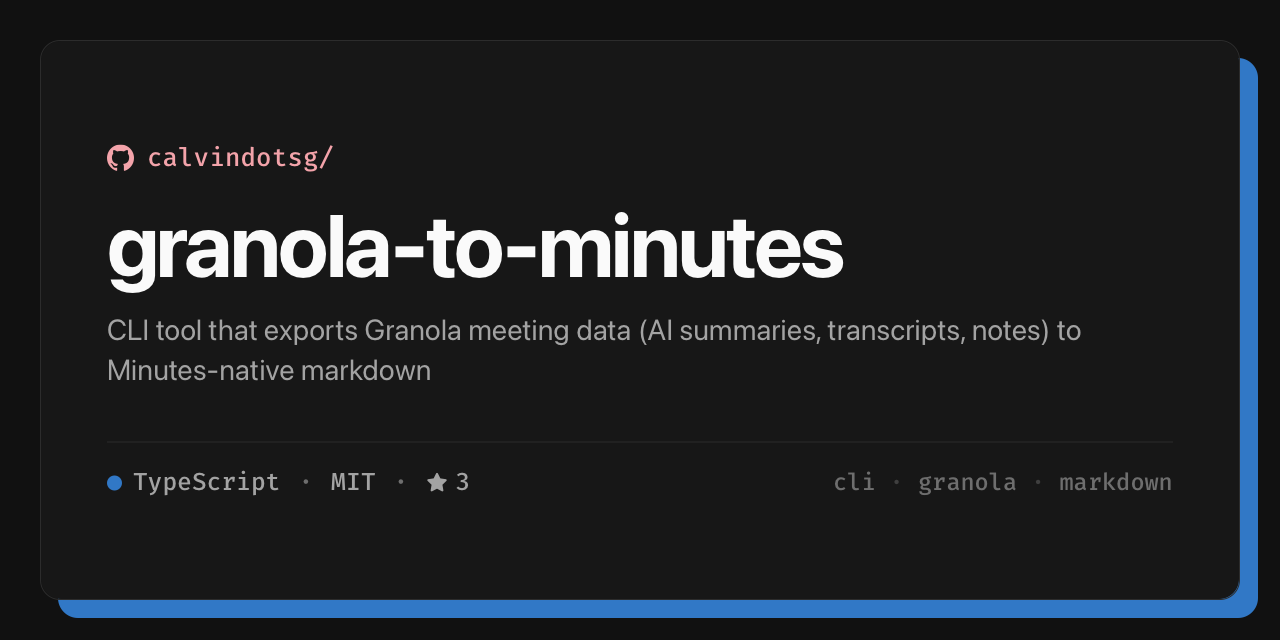
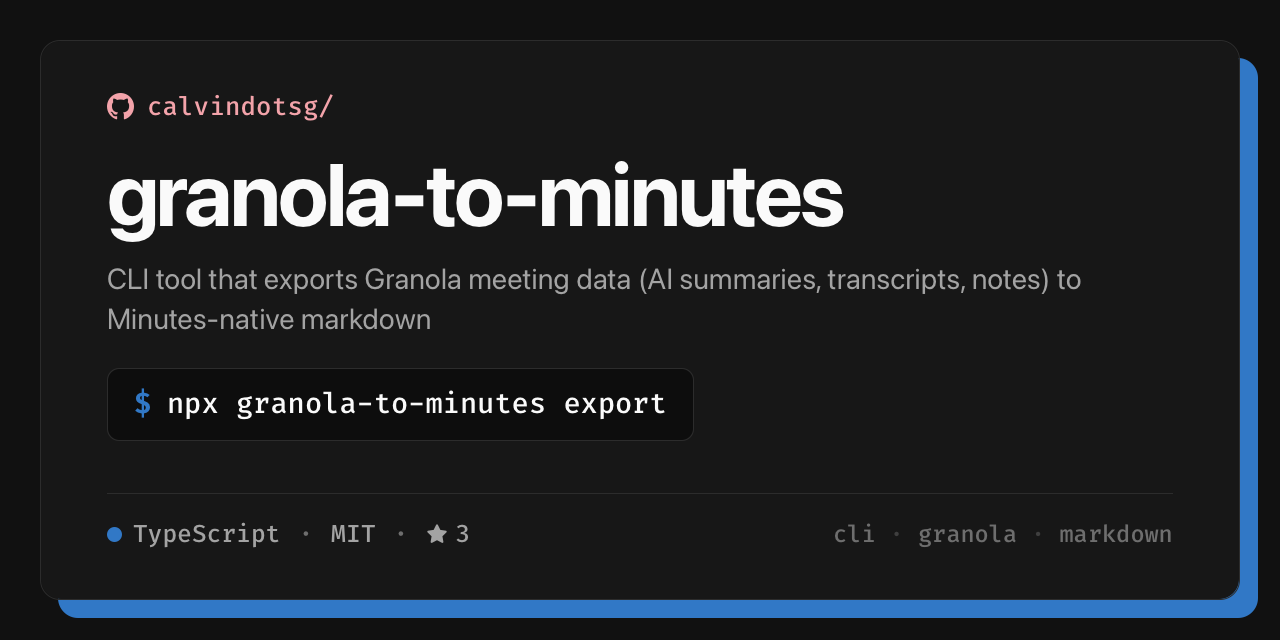
feat(social-preview): gate cards on carrying what the default cannot
Put the two cards side by side and the first version loses. GitHub's generated card already
draws the name, description, owner avatar, four LIVE counters — contributors, issues, stars,
forks — and a proportional language bar over every language in the repository. A card built
from the same metadata trades all of that for a licence and three topics, and freezes what is
left into a snapshot that nothing re-runs. That is a downgrade wearing a nicer palette, and it
is not obvious until the comparison is actually made.

So eligibility is now a rule the tool enforces, not advice in a README: a repository earns a
card only when the card carries something no generated card can. Today that is an install
command — it lives in no GitHub metadata field, and for something you install and run it is the
most useful line on the card. `repos.json` is the list, each command copied from that
repository's own README, and the upload refuses without an entry unless forced. The check runs
before drawing, so a refused repository leaves no PNG to be mistaken later for a live card.

Three qualify. `portfolio-v2`, `.github` and the profile README keep GitHub's card, and their
images are deleted rather than left committed and unused.

Claude-Session: https://claude.ai/code/session_01Po4827ua2sCb7ZHRfXYJ9D

diff --git a/social-preview/card.html b/social-preview/card.html
@@ -131,6 +131,38 @@
         overflow: hidden;
     }
 
+    /*
+     * THE ONE LINE GITHUB'S GENERATED CARD CANNOT DRAW, and the reason a custom card exists at
+     * all. An install command is in no GitHub metadata field, so no card built from metadata can
+     * ever show it — while everything else here (name, description, language, counters) the
+     * default card already draws, live, and better. A card without this element is a downgrade;
+     * `scripts/social-preview.sh` refuses to upload one without being forced.
+     *
+     * Set as a terminal line rather than a button, because that is where the command is going to
+     * be typed, and the card is already speaking that language in its utility face.
+     */
+    .install {
+        margin-top: 30px;
+        display: inline-flex;
+        align-items: baseline;
+        gap: 16px;
+        max-width: 100%;
+        padding: 18px 26px;
+        /* Recessed rather than raised: darker than the card it sits on, the way a terminal is
+         * darker than the window around it. */
+        background: #0D0D0D;
+        border: 1px solid var(--rule);
+        border-radius: 12px;
+        color: var(--ink);
+        font-size: 28px;
+        font-weight: 500;
+        white-space: nowrap;
+        overflow: hidden;
+    }
+
+    /* The prompt carries the language colour, tying the command to the slab behind the card. */
+    .install .prompt { color: var(--lang-true, var(--lang)); font-weight: 700; }
+
     .meta {
         margin-top: 52px;
         padding-top: 26px;
@@ -188,6 +220,7 @@
         </div>
         <div class="name" id="name"></div>
         <div class="desc" id="desc"></div>
+        <div class="install mono" id="install" hidden></div>
     </div>
     <div class="meta">
         <div class="facts mono" id="facts"></div>
@@ -204,13 +237,14 @@
      */
     const CARD = /*__CARD_DATA__*/ {
         owner: "calvindotsg",
-        name: "portfolio-v2",
-        description: "calvin.sg — Astro site with DNS-as-code, live Strava goal tracking, and a rendered-output test suite",
-        language: "TypeScript",
-        languageColor: "#3178c6",
+        name: "mac-upkeep",
+        description: "Zero-config CLI that runs unified macOS maintenance — caches, updates, services — on boot and weekly via launchd",
+        language: "Python",
+        languageColor: "#3572A5",
         license: "MIT",
-        stars: 0,
-        topics: ["astro", "portfolio", "personal-website"]
+        stars: 2,
+        topics: ["automation", "cli", "homebrew"],
+        install: "brew install calvindotsg/tap/mac-upkeep"
     } /*__END_CARD_DATA__*/;
 
     const $ = (id) => document.getElementById(id);
@@ -279,6 +313,18 @@
      * usually buys the whole sentence; below that it stops being legible in a Slack unfurl, so
      * the clamp takes over and the tail is dropped on purpose rather than by accident. */
     if ((CARD.description || "").length > 88) $("desc").style.fontSize = "29px";
+
+    if (CARD.install) {
+        const el = $("install");
+        el.hidden = false;
+        el.innerHTML = '<span class="prompt">$</span><span id="cmd"></span>';
+        document.getElementById("cmd").textContent = CARD.install;
+        // Same treatment as the headline: step the command down until it fits on one line,
+        // rather than picking a size that happens to suit today's longest command.
+        for (let size = 28; size >= 18 && el.scrollWidth > 1010; size -= 1) {
+            el.style.fontSize = size + "px";
+        }
+    }
 
     const facts = [];
     if (CARD.language) {

diff --git a/social-preview/README.md b/social-preview/README.md
@@ -13,45 +13,80 @@ LinkedIn. `scripts/social-preview.sh` draws one from the repository's own metada
 preview back, so a committed copy is the only record of what is live — and the only way a change
 to the design shows up as a diff.
 
-## Status: uploads currently land, but GitHub does not serve them
+## Which repositories should have one — and why most should not
 
-**Nothing in this directory has been rolled out, and that is deliberate.** GitHub's
-repository-image pipeline is broken as of 2026-08-21: an upload succeeds, the repository's
-`og:image` is repointed at the new asset, GitHub's own Settings page renders the preview tile —
-and the bytes never appear on `repository-images.githubusercontent.com`, which answers 404
-forever. The result is worse than doing nothing: every link to the repository unfurls as a broken
-image, where an unconfigured repository unfurls as GitHub's generated card.
+**GitHub's generated card is good, and it is live.** Measured against
+`calvindotsg/portfolio-v2`, it carries the owner and repository name, the description, the
+owner's avatar, four counters — contributors, issues, stars, forks — and a proportional language
+bar, and every one of those numbers updates itself.
 
-This is not specific to this tooling. It reproduces through GitHub's own UI, and is reported
-publicly — [davep, "GitHub social preview is broken"][davep] (2026-08-21), which counts two
-community-discussion reports of the same thing.
+A custom card built from the same metadata is therefore not a reskin, it is a **downgrade**:
 
-Verified here on `calvindotsg/portfolio-v2` across four separate uploads: policy `201`, storage
-`204`, finalize `200`, asset readable straight from GitHub's own S3 bucket at full size, and the
-CDN URL 404 for over 45 minutes. `--remove` restored the generated card.
+| | Generated card | A metadata-only custom card |
+|---|---|---|
+| Name, description | Yes | Yes |
+| Owner avatar | Yes | No |
+| Contributors / issues / stars / forks | Yes, **live** | Stars only, **frozen at render time** |
+| Language | Proportional bar over every language | Primary language only |
+| Licence, topics | No | Yes |
+| Stays current | Automatically | Only when someone re-runs this script |
 
-**To roll out once GitHub fixes it:**
+Net of that trade, a metadata-only card adds a licence and three topics and gives up four live
+counters, the avatar and the full language breakdown. That is not worth doing, and the reason to
+write it down is that it is not obvious until the two are put side by side.
+
+**So a repository earns a card only when the card can carry something the generated one
+structurally cannot.** Today that means one thing: an **install command**. It exists in no GitHub
+metadata field, so no generated card can ever show it, and for something you install and run it
+is the most useful line on the card. `repos.json` is the list, and having an entry there is what
+makes a repository eligible — `social-preview.sh` refuses to upload for a repository without one
+unless you pass `--force`.
+
+Three qualify. `portfolio-v2`, `.github` and the `calvindotsg` profile README do not, and keep
+GitHub's card. For `portfolio-v2` the thing that would beat the default is a **screenshot of
+calvin.sg** — showing the product rather than restating its metadata. That is a different kind of
+card and is not built here.
+
+## Status: nothing is uploaded, and GitHub could not serve it anyway
+
+Two independent reasons, either sufficient on its own:
+
+1. **The eligibility rule above.** Only three repositories qualify, and their cards are committed
+   here, drawn and checked, ready to upload.
+2. **GitHub's repository-image pipeline is broken as of 2026-08-21.** An upload succeeds, the
+   repository's `og:image` is repointed at the new asset, GitHub's own Settings page renders the
+   preview tile — and the bytes never appear on `repository-images.githubusercontent.com`, which
+   answers 404 indefinitely. A configured repository then unfurls as a *broken image*, which is
+   worse than the generated card it replaced.
+
+The second is not specific to this tooling: it reproduces through GitHub's own UI and is reported
+publicly — [davep, "GitHub social preview is broken"][davep] (2026-08-21), citing two
+community-discussion reports of the same thing. Verified here on `portfolio-v2` across four
+uploads: policy `201`, storage `204`, finalize `200`, the asset readable at full size straight
+from GitHub's own S3 bucket, and the CDN URL 404 for over 45 minutes. `--remove` put the
+generated card back.
+
+**To roll out once GitHub fixes it**, confirm on one repository that the script prints
+`set and serving` rather than `serving: not yet`, then:
 
 ```bash
 ./scripts/social-preview.sh \
-  calvindotsg/portfolio-v2 calvindotsg/mac-upkeep calvindotsg/granola-to-minutes \
-  calvindotsg/homebrew-tap calvindotsg/.github calvindotsg/calvindotsg
+  calvindotsg/mac-upkeep calvindotsg/granola-to-minutes calvindotsg/homebrew-tap
 ```
-
-Check first, on any repository, that a fresh upload actually serves — the script prints
-`set and serving` when it does and `serving: not yet` when it does not.
 
 ## The design
 
-One template, `card.html`, filled per repository. Every value on the card is read from the
-repository at render time, so a card cannot drift from the repository it describes without the
-next run correcting it.
+One template, `card.html`, filled per repository. Every value except the install command is read
+from the repository at render time. Nothing re-runs this script on its own, so a committed card
+is a **snapshot**: a star arriving or a description being edited leaves it stale until someone
+runs it again. That is the cost the eligibility rule above is paying for.
 
 | | |
 |---|---|
 | **Palette** | calvin.sg's dark theme, token for token — `#111111` canvas, `#171717` card, `#2C2C2C` rule, `#FAFAFA` ink, `#F3A3AA` accent. Not a second brand to maintain. |
 | **Type** | SF Pro for prose. FiraCode for the handle, language, licence and topics — every repository here is something you install and run from a shell, so the machine-readable half of the card is set in the font that account's terminal uses. |
 | **Signature** | The offset slab behind the card, inherited from the portrait treatment on calvin.sg — and coloured by the repository's **primary language**, not by the brand. The same element that makes the account's cards one set tells them apart before a word is read. The dot beside the language name is the legend. |
+| **Install line** | The one element the generated card cannot have. Set as a terminal line — recessed, monospaced, with the prompt in the language colour — because that is where the command will be typed. |
 | **Safe area** | GitHub's template asks for a 40pt border its crops may eat. That margin holds the slab and nothing else, so the only croppable element is the only decorative one. |
 
 Language colours come from `primaryLanguage.color` on GitHub's GraphQL API, which returns

diff --git a/README.md b/README.md
@@ -117,10 +117,10 @@ fi
 ## Social Preview Cards
 
 `social-preview/` holds a card template and `scripts/social-preview.sh`, which draws a
-repository's social preview from its own metadata and uploads it. GitHub has no API for that
-setting — description, homepage and topics are all writable over REST, and the one field that
-decides what a link looks like in Slack or on LinkedIn is not — so the script drives the
-Settings page's own upload requests from a signed-in browser pane.
+repository's social preview and uploads it. GitHub has no API for that setting — description,
+homepage and topics are all writable over REST, and the one field deciding what a link looks like
+in Slack or on LinkedIn is not — so the script drives the Settings page's own upload requests
+from a signed-in browser pane.
 
 ```bash
 ./scripts/social-preview.sh --render-only calvindotsg/mac-upkeep   # draw it, change nothing
@@ -128,12 +128,19 @@ Settings page's own upload requests from a signed-in browser pane.
 ./scripts/social-preview.sh --remove calvindotsg/mac-upkeep        # back to GitHub's default
 ```
 
-**Not rolled out yet, deliberately.** GitHub's repository-image pipeline has been broken since
-2026-08-21: the upload succeeds and the repository's `og:image` is repointed, but the bytes
-never reach the CDN, so every link unfurls as a *broken* image rather than as GitHub's
-generated card. Verified across four uploads on `portfolio-v2` and then reverted. The cards are
-committed and ready; see [social-preview/README.md](social-preview/README.md) for the protocol,
-the evidence, and how to check whether GitHub has fixed it before running the rollout.
+**Most repositories should keep GitHub's generated card.** It already carries the name,
+description, avatar, four *live* counters and a proportional language bar. A custom card built
+from the same metadata trades those counters for a licence and some topics, and freezes the rest
+into a snapshot — a downgrade. A repository earns a card only when the card carries something the
+generated one structurally cannot, which today means an **install command**; `repos.json` is that
+list, and the script refuses to upload for a repository missing from it. Three qualify:
+`mac-upkeep`, `granola-to-minutes`, `homebrew-tap`.
+
+**Nothing is uploaded yet.** GitHub's repository-image pipeline has been broken since 2026-08-21:
+the upload succeeds and `og:image` is repointed, but the bytes never reach the CDN, so a
+configured repository unfurls as a *broken* image. Verified across four uploads on `portfolio-v2`
+and reverted. See [social-preview/README.md](social-preview/README.md) for the comparison that
+sets the bar, the upload protocol, and how to check whether GitHub has fixed it.
 
 Requires macOS with cmux running, since the upload needs a real authenticated browser session.
 
